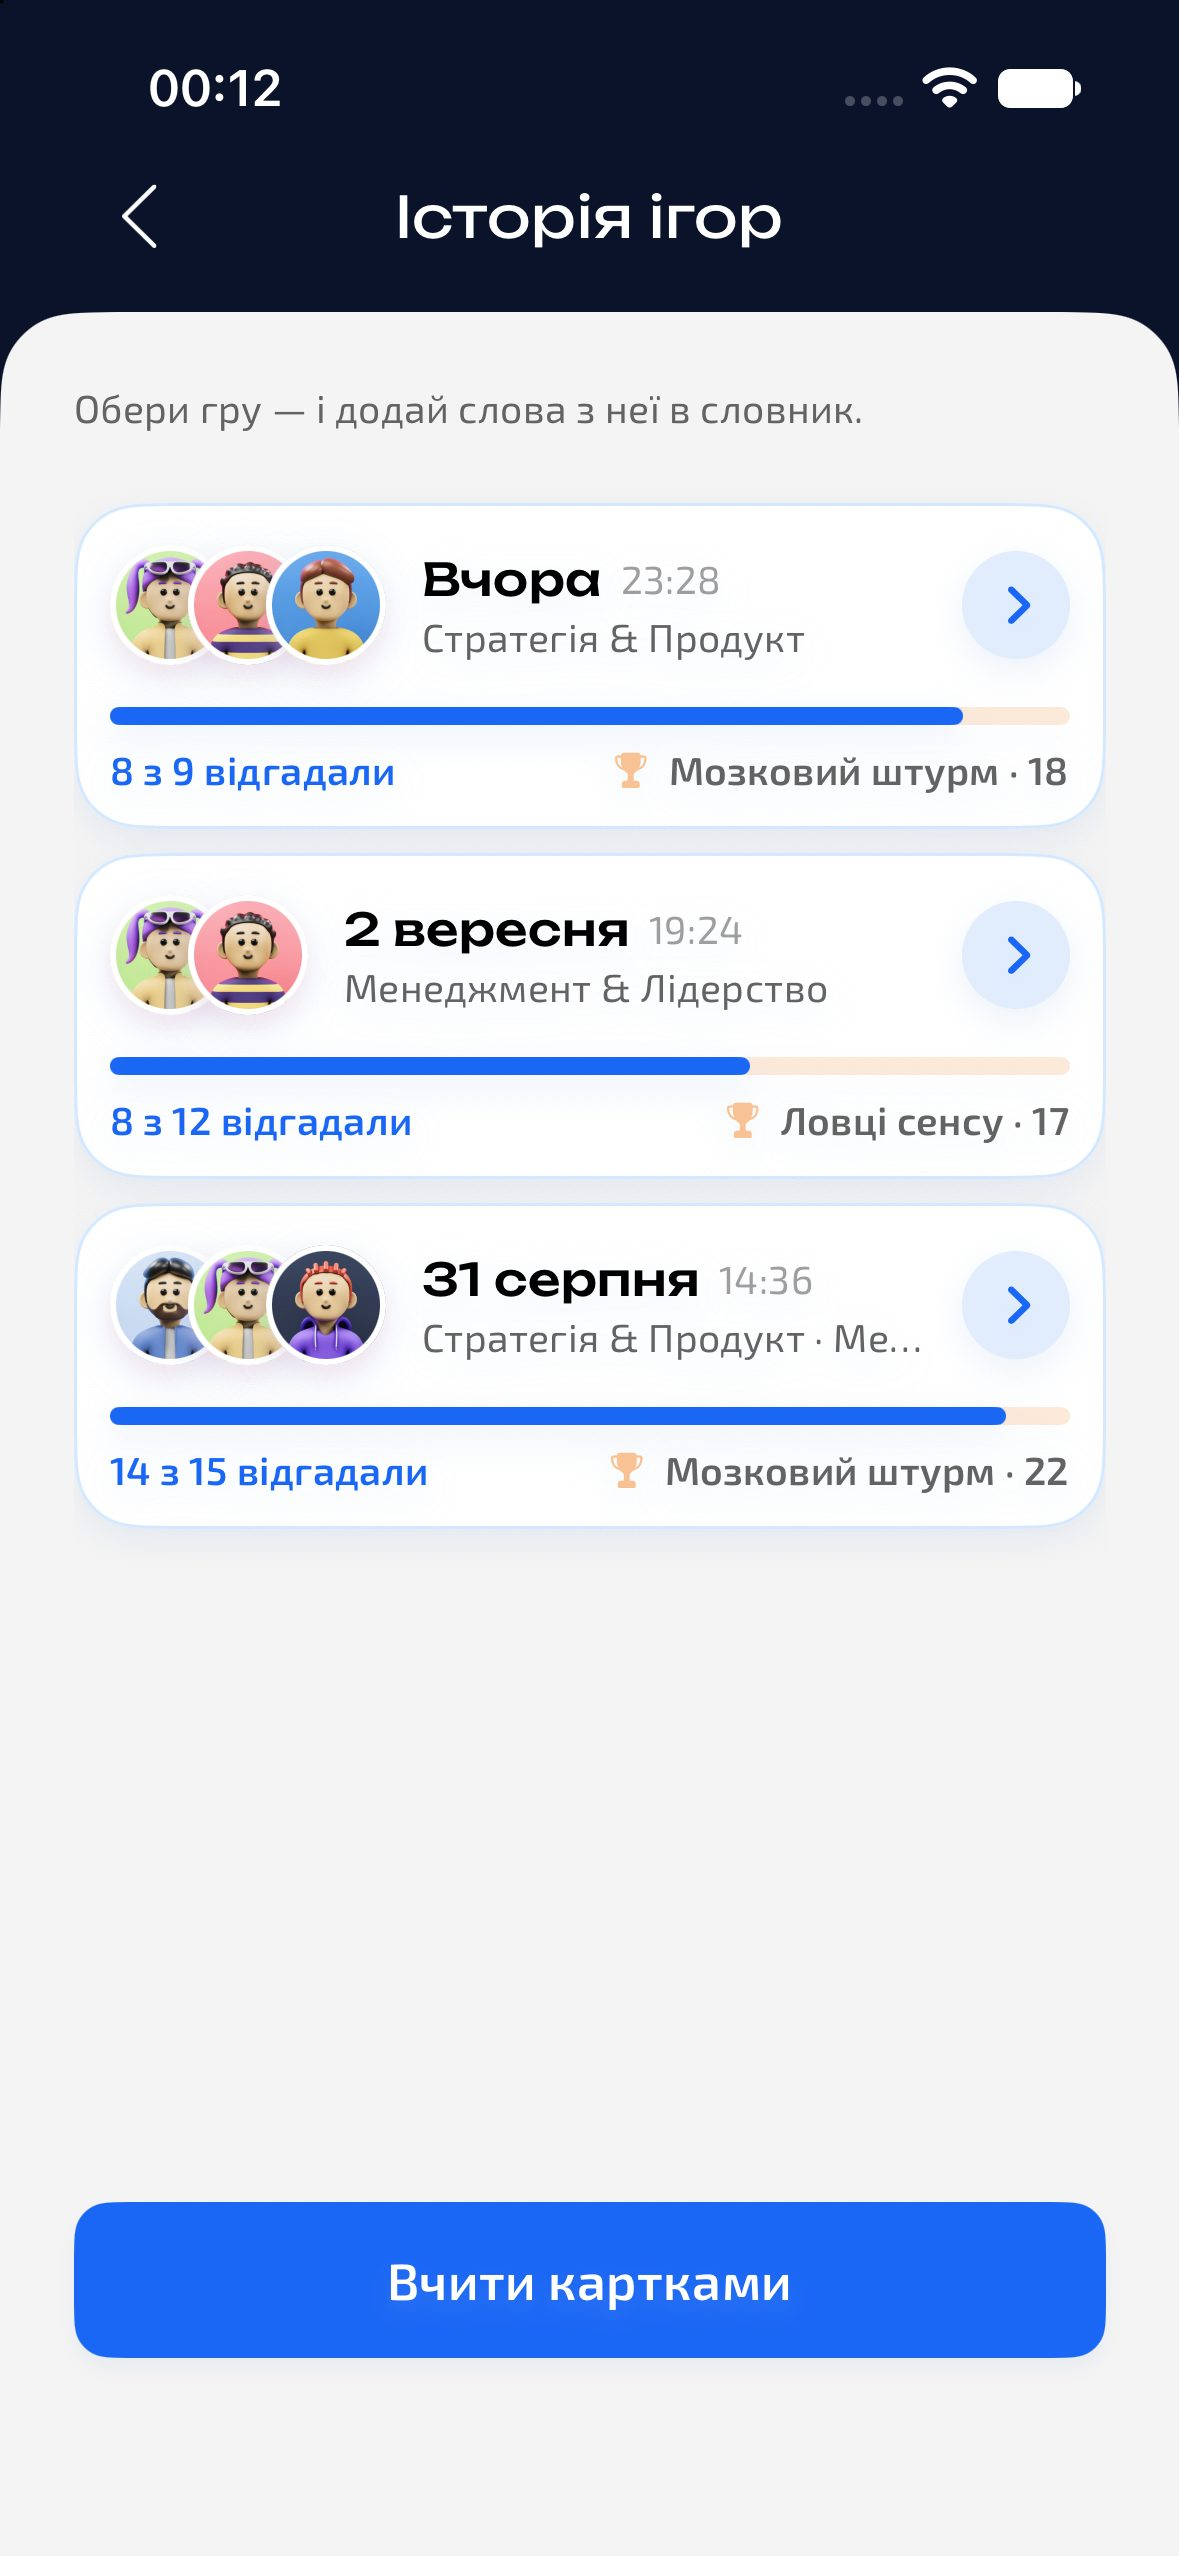
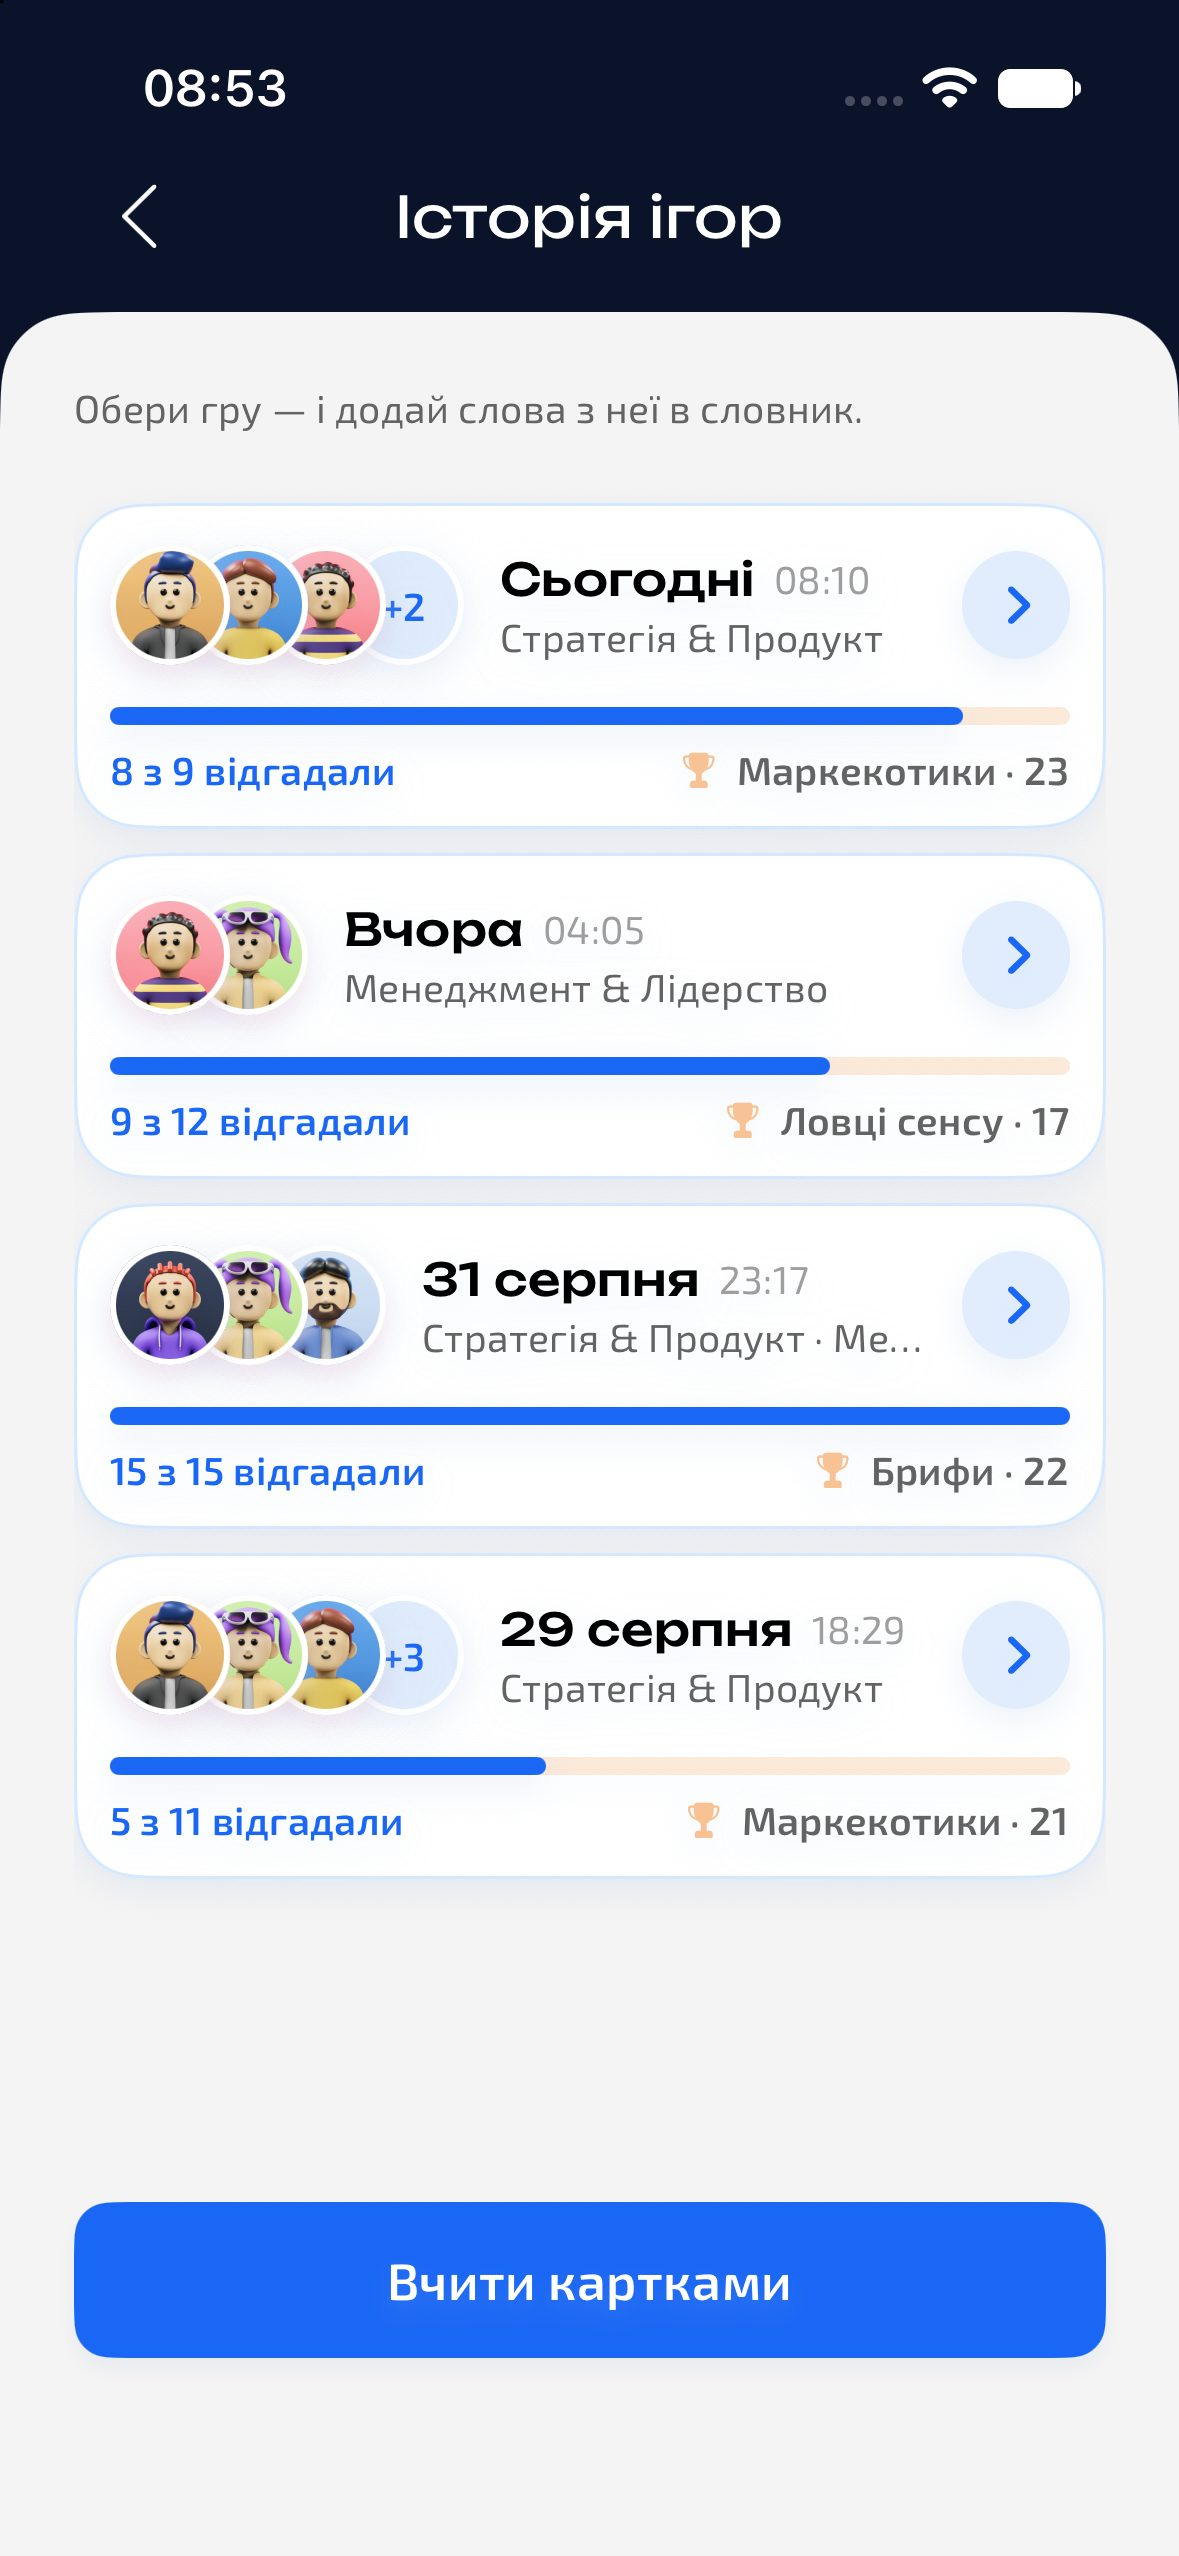
Site

diff --git a/index.html b/index.html
@@ -326,12 +326,12 @@ figcaption{cursor:zoom-in}
 </figure><figure class="card" tabindex="0" data-route="savedWordCardsDone" data-label="Усі слова вивчено" data-note="Колода порожня: додати слова або повторити всі" data-src="shots/savedWordCardsDone.jpg">
 <div class="shot"><img src="shots/savedWordCardsDone.jpg" alt="Усі слова вивчено" loading="lazy"></div>
 <figcaption><b>Усі слова вивчено</b><span class="note">Колода порожня: додати слова або повторити всі</span></figcaption>
-</figure><figure class="card" tabindex="0" data-route="addWords" data-label="Історія ігор" data-note="Картка партії в мові головної: команди, результат, лідер" data-src="shots/addWords.jpg">
+</figure><figure class="card" tabindex="0" data-route="addWords" data-label="Історія ігор" data-note="Стек аватарів із «+N» — картка однакова на 2 і на 6 командах" data-src="shots/addWords.jpg">
 <div class="shot"><img src="shots/addWords.jpg" alt="Історія ігор" loading="lazy"></div>
-<figcaption><b>Історія ігор</b><span class="note">Картка партії в мові головної: команди, результат, лідер</span></figcaption>
-</figure><figure class="card" tabindex="0" data-route="playedGameWords" data-label="Слова гри" data-note="Закладка в обидва боки — збережене лишається з позначкою" data-src="shots/playedGameWords.jpg">
+<figcaption><b>Історія ігор</b><span class="note">Стек аватарів із «+N» — картка однакова на 2 і на 6 командах</span></figcaption>
+</figure><figure class="card" tabindex="0" data-route="playedGameWords" data-label="Слова гри" data-note="Рахунок усіх команд угорі, закладка в обидва боки" data-src="shots/playedGameWords.jpg">
 <div class="shot"><img src="shots/playedGameWords.jpg" alt="Слова гри" loading="lazy"></div>
-<figcaption><b>Слова гри</b><span class="note">Закладка в обидва боки — збережене лишається з позначкою</span></figcaption>
+<figcaption><b>Слова гри</b><span class="note">Рахунок усіх команд угорі, закладка в обидва боки</span></figcaption>
 </figure><figure class="card" tabindex="0" data-route="addWordsEmpty" data-label="Ще не грали" data-note="Порожня історія → «Зіграти»" data-src="shots/addWordsEmpty.jpg">
 <div class="shot"><img src="shots/addWordsEmpty.jpg" alt="Ще не грали" loading="lazy"></div>
 <figcaption><b>Ще не грали</b><span class="note">Порожня історія → «Зіграти»</span></figcaption>
